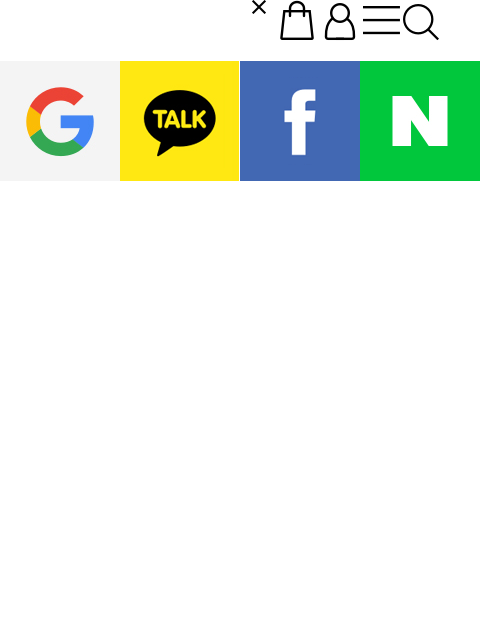
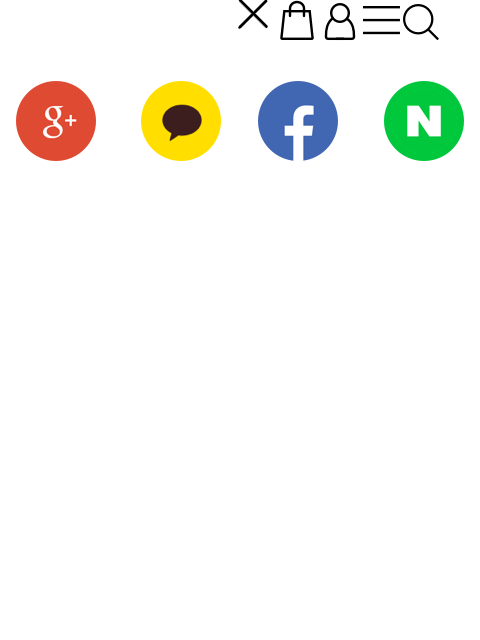
login sns 이미지 수정 / 회원가입약관선택수정

Changed region(s): [[0.25, 0.0938, 1.0, 0.2812], [0.0312, 0.125, 0.2188, 0.25], [0.5, 0.0, 0.5625, 0.0625]]

diff --git a/src/api/index.js b/src/api/index.js
@@ -186,7 +186,7 @@ function sendSms (authType, authWay, authWayValue) {
   }
   var formdata = new FormData()
   formdata.set('jsonData', JSON.stringify(jsonData))
-  return axios.post(`${config.baseUrl2}auth/sendauthmine`, formdata)
+  return axios.post(`${config.baseUrl}auth/sendauthmine`, formdata)
 }
 
 // 본인인증확인
@@ -199,7 +199,7 @@ function chkSmsAuth (authType, authWay, authWayValue, authNo) {
   }
   var formdata = new FormData()
   formdata.set('jsonData', JSON.stringify(jsonData))
-  return axios.post(`${config.baseUrl2}auth/chkauthmine`, formdata)
+  return axios.post(`${config.baseUrl}auth/chkauthmine`, formdata)
 }
 
 // 회원가입
@@ -208,11 +208,13 @@ function createtUser (user) {
     'userId': user.userId,
     'password': user.password,
     'mobile': user.phone,
-    'email': user.email
+    'email': user.email,
+    'agreeSellection1': user.agreeSellection1,
+    'agreeSellection2': user.agreeSellection2
   }
   var formdata = new FormData()
   formdata.set('jsonData', JSON.stringify(jsonData))
-  return axios.post(`${config.baseUrl2}auth/join`, formdata)
+  return axios.post(`${config.baseUrl}auth/join`, formdata)
 }
 
 // 일반로그인
@@ -223,7 +225,7 @@ function userLogin (userId, password) {
   }
   var formdata = new FormData()
   formdata.set('jsonData', JSON.stringify(jsonData))
-  return axios.post(`${config.baseUrl2}auth/login`, formdata)
+  return axios.post(`${config.baseUrl}auth/login`, formdata)
 }
 
 // 본인인증결과
@@ -261,16 +263,32 @@ function parseJwt (token) {
   return JSON.parse(jsonPayload)
 }
 
+// access토큰 발급
 function getAccessToken (refreshToken) {
   return axios({
     method: 'post',
-    url: `http://192.168.1.20:3000/api/v1/auth/accesstoken`,
+    url: `${config.baseUrl2}auth/accesstoken`,
     headers: {
       'Content-Type': 'application/x-www-form-urlencoded',
       'Authorization': `Bearer ${refreshToken}`
     }
   })
 }
+
+// refresh토큰 갱신
+function getRefressToken (refreshToken) {
+  let header = {
+    'Authorization': `Bearer ${refreshToken}`
+  }
+  return axios.post(`${config.baseUrl}auth/refresh`, header)
+}
+
+// function getAccessToken (refreshToken) {
+//   let header = {
+//     'Authorization': `Bearer ${refreshToken}`
+//   }
+//   return axios.post(`${config.baseUrl}auth/accesstoken`, '', header)
+// }
 
 // 토큰 만료 여부 확인 (true:만료 false:기한남음)
 // function isTokenExpired (token) {
@@ -287,6 +305,8 @@ function getAccessToken (refreshToken) {
 
 // let dayDiff = Math.ceil(Math.abs(timeDiff) / (1000 * 60 * 60 * 24))
 export {
+  getAccessToken,
+  getRefressToken,
   getPublicKey,
   checkRSA,
   snsLogin,
@@ -309,7 +329,6 @@ export {
   getUserInfo,
   getMemberAddrList,
   addMemberAddress,
-  getAccessToken,
   postCartItem
   // nonMemberCart,
   // getNonMemberCart

diff --git a/src/assets/css/common.css b/src/assets/css/common.css
@@ -677,9 +677,15 @@ member-----------------------------------------*/
  border-bottom: 0;
  margin-bottom: 10px;
 }
+.social ul {
+  position: relative;
+  float: right;
+  left: -50%;
+}
 .social li{  
-  display: inline-block;
-  width: 20%;  
+  position: relative;
+  float: left;
+  left: 50%;
 }
 .social li a,
 .social li span {
@@ -938,12 +944,11 @@ input[type="button"].btn-block {
 }
 .toggle-button-save .toggle-button__icon:before,
 .toggle-button-save .toggle-button__icon:after {
-  width: 10px;
+  width: 8px;
   height: 2px;
   border-radius: 3px;
-  background: #ccc;  
-  margin-left: -10%;
-  top: 55%;
+  background: #ccc;
+  /* top: 55%; */
 }
 .toggle-button-save input[type=checkbox]:checked~.toggle-button__icon:before,
 .toggle-button-save input[type=checkbox]:checked~.toggle-button__icon:after{
@@ -960,31 +965,27 @@ icon*/
   width: 30px;
   height: 30px;
   background-position: -3px -34px;
-  background-color: #f4f4f4;
 }
 .btn-cacao{
   width: 30px;
   height: 30px;
   margin-right: 5px;
   background-position: -62px -34px;
-  background-color: #ffde00;
 }
 .btn-fb{
   margin-left: 4px;
-  width: 55px;
-  height: 55px;
+  width: 56px;
+  height: 56px;
   background-position: -124px -34px;  
-  background-color: #4267b2;
   border-radius: 2rem !important;
 }
 .btn-naver{
   width: 30px;
   height: 30px;
   background-position: -182px -34px;
-  background-color: #00c73c;
 }
 .icon_close{
-  background-position: -252px 0;
+  background-position: -120px 0;
   width: 14px;
   height: 14px;
 }

diff --git a/src/components/member/RegisterCheck.vue b/src/components/member/RegisterCheck.vue
@@ -54,6 +54,9 @@ export default {
     }
   },
   computed: {
+    checkedTerms () {
+      return this.checked.filter((item, i) => this.checked.indexOf(item) === i).sort()
+    },
     isCheckAll: {
       get: function () {
         if ((this.checked.length !== this.terms.length) || this.terms.length === 0) return false
@@ -72,18 +75,25 @@ export default {
   },
   methods: {
     checkForm (e) {
-      if (this.checked[0] !== '01') {
+      if (this.checkedTerms[0] !== '01') {
         alert('필수항목을 체크해 주세요')
-      } else if (this.checked[1] !== '02') {
+        return false
+      }
+      if (this.checkedTerms[1] !== '02') {
         alert('필수항목을 체크해 주세요')
+        return false
+      }
+      if (this.checkedTerms[2] === '03') {
+        this.$store.state.userInfo.agreeSellection1 = 1
+      }
+      if (this.checkedTerms[3] === '04') {
+        this.$store.state.userInfo.agreeSellection2 = 1
+      }
+      if (this.$route.params.key === 'sns') { // sns간편가입시
+        this.$router.push({name: 'RegStep03', params: {key: 'sns'}})
       } else {
         this.$router.push('/RegStep02')
       }
-      // if (this.$route.params.key === 'sns') { // sns간편가입시
-      //   this.$router.push({name: 'RegStep03', params: {key: 'sns'}})
-      // } else {
-      //   this.$router.push('/RegStep02')
-      // }
     }
   }
 }

diff --git a/src/components/member/LoginForm.vue b/src/components/member/LoginForm.vue
@@ -35,7 +35,7 @@
          </ul>
          <button type="button" class="btn btn-block btn-main" @click="loginBtnClick">로그인</button>
          <ul class="form_item_wrap login_service">
-            <li><a href="/Searchid">아이디 찾기 테스트테스트테스느</a></li>
+            <li><a href="/Searchid">아이디 찾기</a></li>
             <li><a href="/Searchpw">패스워드 찾기</a></li>
             <li><a href="/RegStep00">회원가입</a></li>
           </ul>
@@ -188,6 +188,13 @@ export default {
 <style scope>
 #kakao-login-btn>img {
     display: none;
+}
+/* 페이스북 로고문제 */
+.v-facebook-login {
+  background-color: transparent !important;
+}
+.loader {
+    opacity: 0 !important;
 }
 
 </style>

diff --git a/src/components/member/RegisterForm.vue b/src/components/member/RegisterForm.vue
@@ -115,7 +115,6 @@ export default {
       }
     },
     checkJoin: function () {
-      // const regPassword = /[ㄱ-ㅎ|ㅏ-ㅣ|가-힣]/
       const regPassword = new RegExp('[ㄱ-ㅎ|ㅏ-ㅣ|가-힣]{6,20}$')
       const regEmail = /^([\w-]+(?:\.[\w-]+)*)@((?:[\w-]+\.)*\w[\w-]{0,66})\.([a-z]{2,6}(?:\.[a-z]{2})?)$/i
       if (this.formData.userId === null) {

diff --git a/src/components/member/RegisterPhone.vue b/src/components/member/RegisterPhone.vue
@@ -86,7 +86,6 @@ export default {
     // 2.인증번호입력확인
     checkPhone: function () {
       this.isClickedCheck = true
-      console.log('this.pwPhone', this.pwPhone)
       chkSmsAuth(0, 1, this.pwPhone, this.authNo)
         .then(res => {
           console.log('인증번호입력확인', res)
